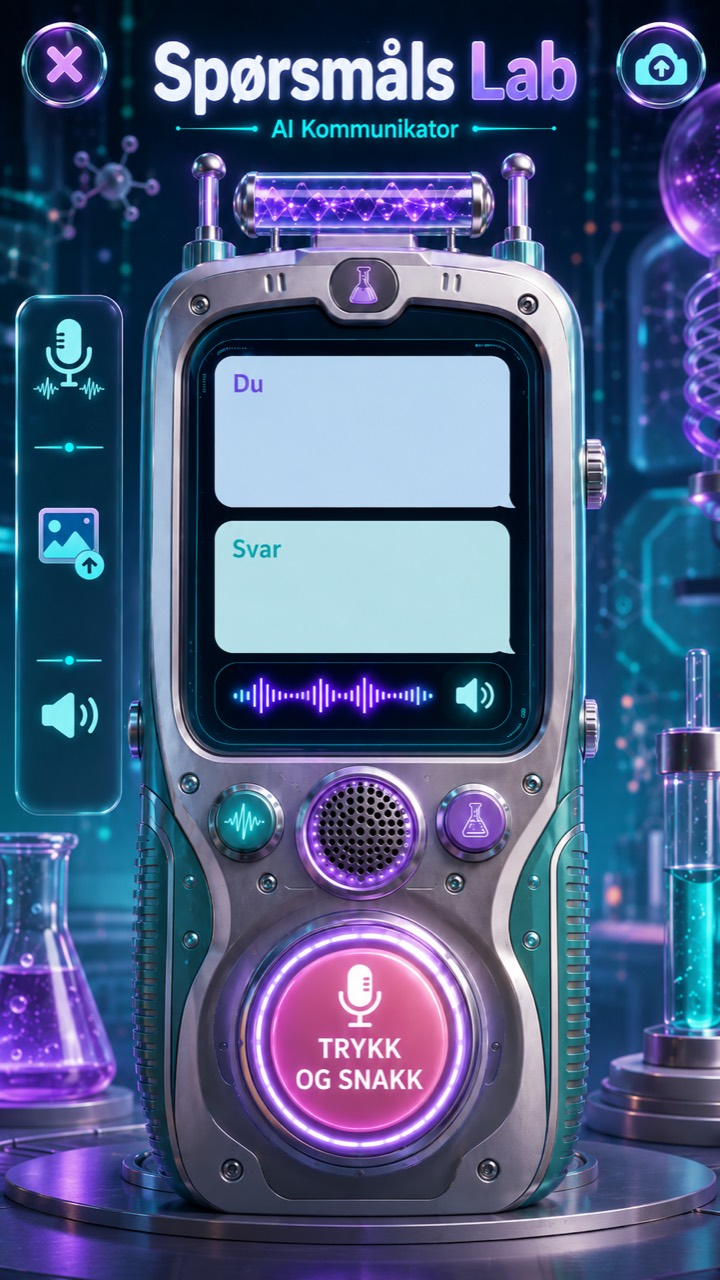
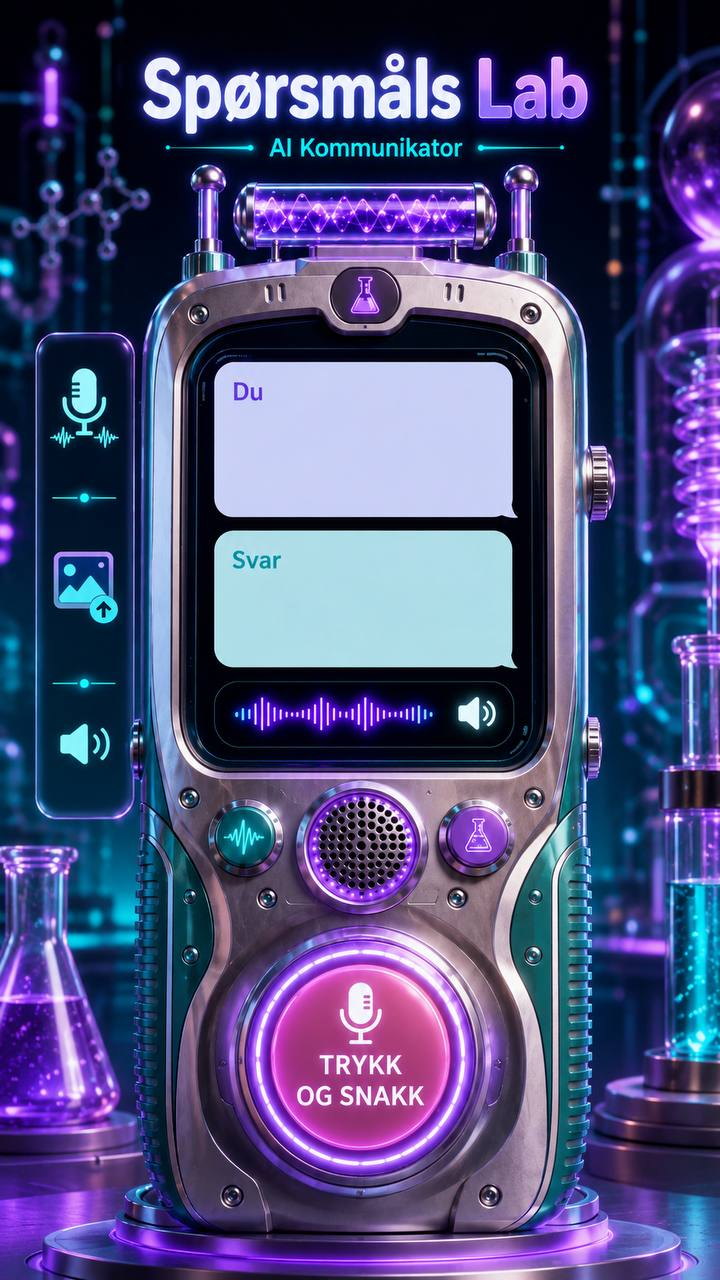
Use new Sporsmals Lab image

diff --git a/SporsmalsLab/index.html b/SporsmalsLab/index.html
@@ -66,7 +66,7 @@
     .radio{position:absolute;inset:0;width:100%;height:100%;margin:0;padding:0;aspect-ratio:auto;border:0;border-radius:0;background:transparent;box-shadow:none}
     .radio:before,.radio:after,.topbar,.screen,.speaker,.sidekeys{display:none}
     .controls{position:absolute;left:0;right:0;top:0;bottom:0;margin:0;display:block}
-    .button{position:absolute;left:50%;top:84%;transform:translate(-50%,-50%);width:29%;height:16.4%;border-radius:50%;border:0;background:transparent;color:transparent;font-size:0;box-shadow:none;opacity:.02}
+    .button{position:absolute;left:50%;top:82.4%;transform:translate(-50%,-50%);width:39%;height:21.9%;border-radius:50%;border:0;background:transparent;color:transparent;font-size:0;box-shadow:none;opacity:.02}
     .button:before{display:none}
     .button.recording{transform:translate(-50%,-50%) scale(.96);background:rgba(255,67,139,.32);box-shadow:0 0 34px rgba(255,83,205,.9);opacity:.7}
     .button.sending{transform:translate(-50%,-50%) scale(.98);background:rgba(73,238,255,.24);box-shadow:0 0 34px rgba(73,238,255,.9);opacity:.7}

diff --git a/index.html b/index.html
@@ -133,7 +133,7 @@
       <div class="room-stage">
         <img src="assets/lekerom-jente.jpg" alt="Barnas Magiske Rom">
         <a class="hotspot hotspot-mic" href="https://marentscloud.duckdns.org:10443/bianca" aria-label="Åpne Magiske Mikrofonen"></a>
-        <a class="hotspot hotspot-lab" href="https://remimarents.github.io/Bianca/SporsmalsLab/?v=scifi-20260613-found" aria-label="Åpne Spørsmåls Lab"></a>
+        <a class="hotspot hotspot-lab" href="https://remimarents.github.io/Bianca/SporsmalsLab/?v=scifi-20260613-new" aria-label="Åpne Spørsmåls Lab"></a>
         <a class="hotspot hotspot-guess" href="Gjettespill/index.html" aria-label="Åpne Gjettespillet"></a>
         <a class="hotspot hotspot-tetris" href="Tetris/index.html" aria-label="Åpne Tetris"></a>
         <a class="hotspot hotspot-bilbingo" href="Bilbingo/index.html" aria-label="Åpne Bilbingo"></a>

diff --git a/BarnasMagiskeRom/index.html b/BarnasMagiskeRom/index.html
@@ -77,7 +77,7 @@
         </span>
       </a>
 
-      <a class="game-card" href="../SporsmalsLab/index.html?v=scifi-20260613-found" aria-label="Åpne Spørsmåls Lab">
+      <a class="game-card" href="../SporsmalsLab/index.html?v=scifi-20260613-new" aria-label="Åpne Spørsmåls Lab">
         <img src="../assets/sporsmals-lab.jpg" alt="Spørsmåls Lab">
         <span>
           <strong>Spørsmåls Lab</strong>

diff --git a/Pipeline/index.html b/Pipeline/index.html
@@ -30,7 +30,7 @@
           </span>
         </a>
 
-        <a class="game-card" href="https://remimarents.github.io/Bianca/SporsmalsLab/?v=scifi-20260613-found">
+        <a class="game-card" href="https://remimarents.github.io/Bianca/SporsmalsLab/?v=scifi-20260613-new">
           <img src="../assets/sporsmals-lab.jpg" alt="Spørsmåls Lab">
           <span>
             <strong>Spørsmåls Lab</strong>

diff --git a/meny/index.html b/meny/index.html
@@ -56,7 +56,7 @@
         </span>
       </a>
 
-      <a class="game-card" href="https://remimarents.github.io/Bianca/SporsmalsLab/?v=scifi-20260613-found">
+      <a class="game-card" href="https://remimarents.github.io/Bianca/SporsmalsLab/?v=scifi-20260613-new">
         <img src="../assets/sporsmals-lab.jpg" alt="Spørsmåls Lab">
         <span>
           <strong>Spørsmåls Lab</strong>
